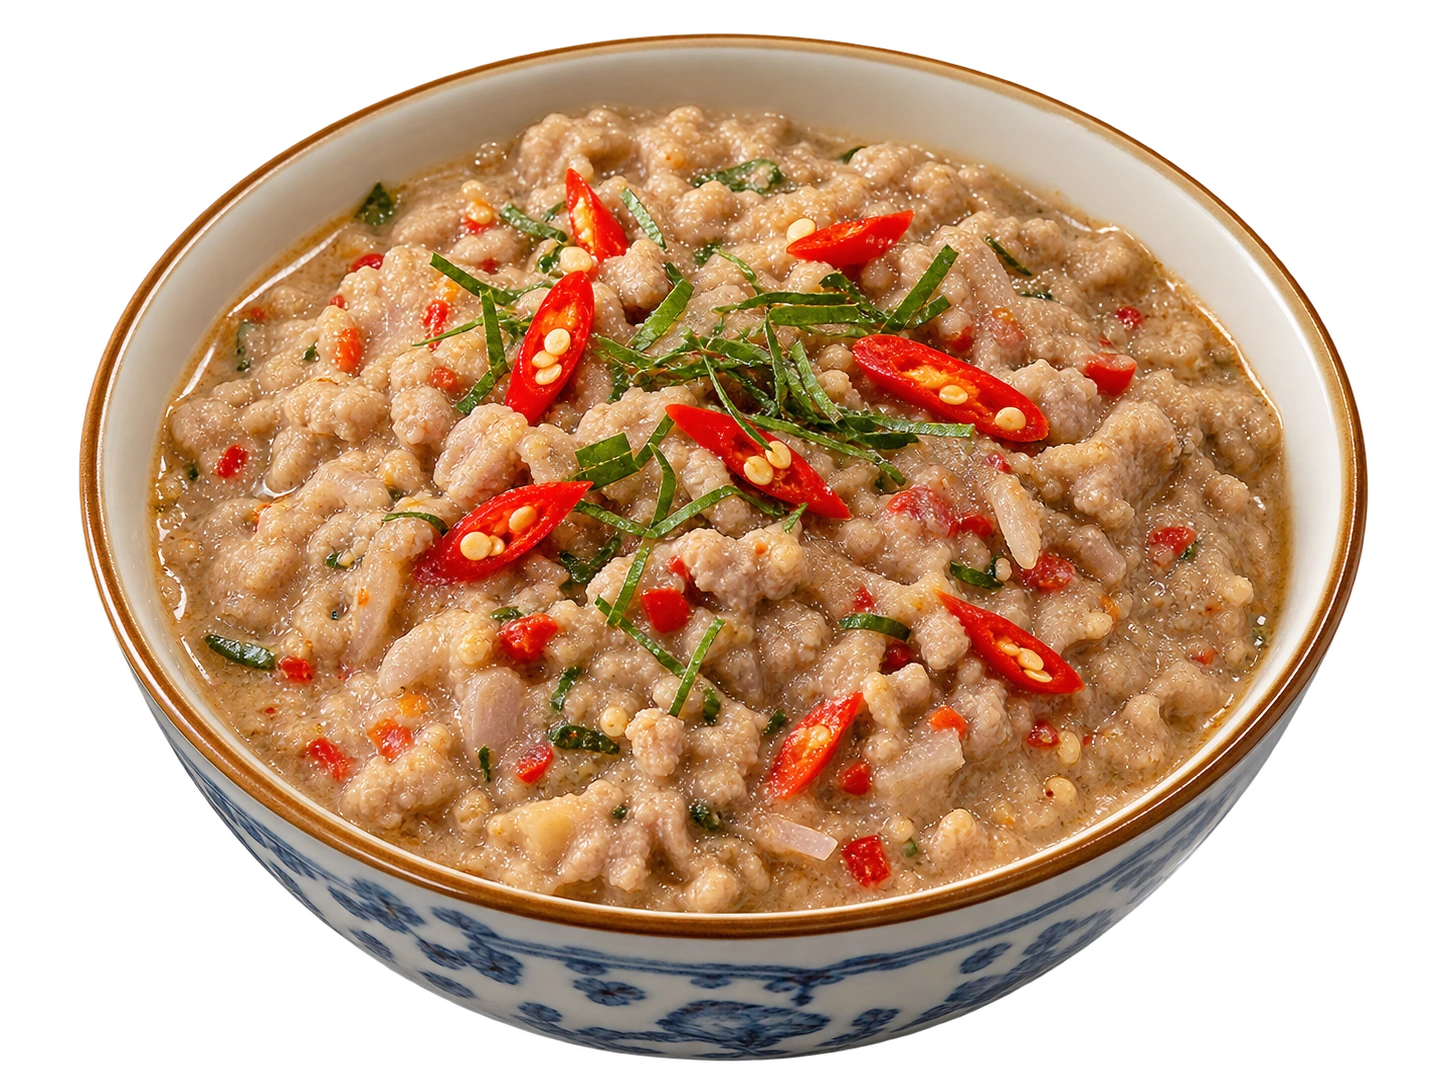
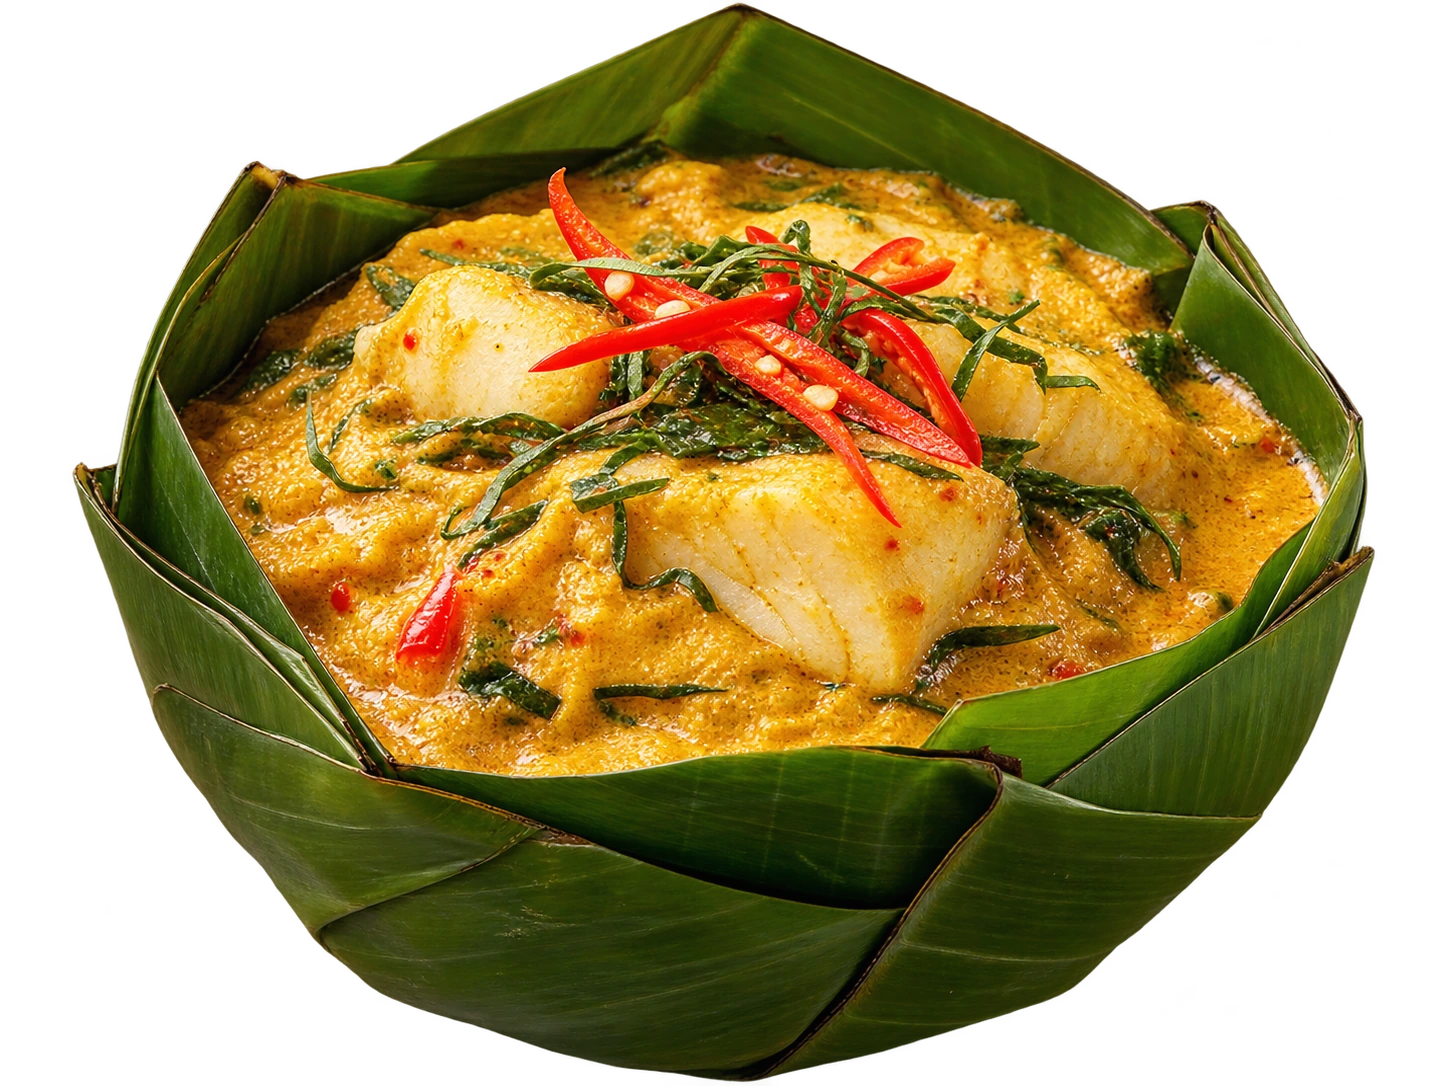
feat(V18 D19): connect 7 culinary visuals and replace fake CSS plate cutouts, correct dish mapping

diff --git a/src/styles/v18-table-cutout-dishes.css b/src/styles/v18-table-cutout-dishes.css
@@ -1,0 +1,96 @@
+/* V18 D19: actual transparent food photography instead of a circular CSS
+   imitation of a plate. Independent recipe links and GSAP stages unchanged. */
+.v17r .v17r-table--assembled .v17r-table-dish{
+  aspect-ratio:4 / 3;
+  filter:none;
+  overflow:visible;
+  isolation:isolate;
+}
+.v17r .v17r-table--assembled .v17r-table-dish::before{
+  content:'';
+  position:absolute;
+  z-index:-1;
+  pointer-events:none;
+  width:75%;
+  height:17%;
+  left:12.5%;
+  bottom:7%;
+  border-radius:50%;
+  background:rgba(22,13,9,.28);
+  filter:blur(clamp(9px,1.3vw,20px));
+  transform:scale(.86);
+  transition:transform .3s ease,opacity .3s ease;
+}
+.v17r .v17r-table--assembled .v17r-table-dish-photo,
+.v17r .v17r-table--assembled .v17r-table-dish--loklak .v17r-table-dish-photo,
+.v17r .v17r-table--assembled .v17r-table-dish--nombanhchok .v17r-table-dish-photo,
+.v17r .v17r-table--assembled .v17r-table-dish--prahok .v17r-table-dish-photo{
+  display:block;
+  inset:0;
+  width:100%;
+  height:100%;
+  border:0;
+  border-radius:0;
+  overflow:visible;
+  background:transparent;
+  box-shadow:none;
+  transform:none;
+  pointer-events:none;
+}
+.v17r .v17r-table--assembled .v17r-table-dish-photo img{
+  display:block;
+  width:100%;
+  height:100%;
+  max-width:none;
+  object-fit:contain;
+  object-position:center;
+  aspect-ratio:auto;
+  border:0;
+  border-radius:0;
+  background:transparent;
+  filter:drop-shadow(0 10px 11px rgba(26,15,9,.34));
+  transition:transform .36s cubic-bezier(.22,.7,.24,1),filter .36s ease;
+}
+.v17r .v17r-table--assembled .v17r-table-dish-label{
+  z-index:9;
+  bottom:-.45rem;
+  border:1px solid rgba(246,225,172,.85);
+  background:rgba(255,248,230,.98);
+  color:#173b29;
+  box-shadow:0 7px 20px rgba(25,16,10,.28);
+  white-space:nowrap;
+}
+@media(hover:hover) and (pointer:fine){
+  .v17r .v17r-table--assembled .v17r-table-dish:hover::before{
+    transform:scale(1.08);opacity:.9;
+  }
+  .v17r .v17r-table--assembled .v17r-table-dish:hover img{
+    transform:translateY(-6px) scale(1.052);
+    filter:drop-shadow(0 19px 15px rgba(26,15,9,.42)) saturate(1.06);
+  }
+  .v17r .v17r-table--assembled .v17r-table-dish:hover .v17r-table-dish-photo{
+    box-shadow:none;
+  }
+}
+@media(max-width:760px){
+  .v17r .v17r-table--assembled .v17r-table-dish--amok{left:3%;top:45%}
+  .v17r .v17r-table--assembled .v17r-table-dish--loklak{left:57%;top:43%}
+  .v17r .v17r-table--assembled .v17r-table-dish--nombanhchok{left:52%;top:67%}
+  .v17r .v17r-table--assembled .v17r-table-dish--prahok{left:4%;top:74%}
+  .v17r .v17r-table--assembled .v17r-table-dish-label{
+    bottom:-.38rem;
+    padding:.43rem .46rem;
+    font-size:clamp(.64rem,2.3vw,.8rem);
+  }
+}
+@media(max-width:370px){
+  .v17r .v17r-table--assembled .v17r-table-dish--amok{top:48%}
+  .v17r .v17r-table--assembled .v17r-table-dish--loklak{top:44%}
+  .v17r .v17r-table--assembled .v17r-table-dish--nombanhchok{top:70%}
+  .v17r .v17r-table--assembled .v17r-table-dish--prahok{top:76%}
+}
+@media(prefers-reduced-motion:reduce){
+  .v17r .v17r-table--assembled .v17r-table-dish-photo img{
+    transition:none!important;
+  }
+}

diff --git a/src/data/recipes.ts b/src/data/recipes.ts
@@ -242,10 +242,10 @@ export const recipes: Recipe[] = [
     equipment: ['Poêle, plancha ou gril'],
     faqs: [{ question: 'Peut-on préparer le porc la veille ?', answer: 'Oui, vous pouvez le mariner la veille et le cuire au dernier moment.' }],
     tags: ['porc', 'riz', 'facile', 'petit-déjeuner'],
-    image: '/images/cuisine/v18-bai-sach-chrouk.webp',
-    imageAlt: 'Bai Sach Chrouk, porc grillé servi sur du riz avec crudités, illustration culinaire créée par IA',
-    imageWidth: 1120,
-    imageHeight: 462,
+    image: '/images/cuisine/v18-bai-sach-chrouk-premium.webp',
+    imageAlt: 'Bai Sach Chrouk, porc mariné grillé sur riz jasmin, pickles et herbes fraîches',
+    imageWidth: 1448,
+    imageHeight: 1086,
     visualTone: 'rice'
   },
   {
@@ -550,10 +550,10 @@ export const recipes: Recipe[] = [
     ],
     relatedIngredients: ['kroeung', 'citronnelle'],
     tags: ['soupe', 'poisson', 'légumes', 'kroeung', 'repas familial'],
-    image: '/images/cuisine/v18-samlor-kako.webp',
-    imageAlt: 'Samlor Kako, soupe cambodgienne de poisson et légumes dans un bol en terre, illustration culinaire créée par IA',
-    imageWidth: 1120,
-    imageHeight: 462,
+    image: '/images/cuisine/v18-samlor-kako-premium.webp',
+    imageAlt: 'Samlor Kako, soupe khmère au poisson, courge, aubergines et légumes verts',
+    imageWidth: 1448,
+    imageHeight: 1086,
     visualTone: 'herbs'
   },
   {
@@ -601,10 +601,10 @@ export const recipes: Recipe[] = [
     ],
     relatedIngredients: ['kroeung', 'citronnelle', 'galanga'],
     tags: ['poulet', 'sauté', 'kroeung', 'citronnelle', 'facile'],
-    image: '/images/cuisine/v18-cha-kroeung.webp',
-    imageAlt: 'Cha Kroeung, sauté de poulet aux herbes et aux aromates dans une assiette, illustration culinaire créée par IA',
-    imageWidth: 1120,
-    imageHeight: 462,
+    image: '/images/cuisine/v18-cha-kroeung-premium.webp',
+    imageAlt: 'Cha Kroeung, poulet sauté aux épices khmères, haricots verts et citronnelle',
+    imageWidth: 1448,
+    imageHeight: 1086,
     visualTone: 'fire'
   },
   {
